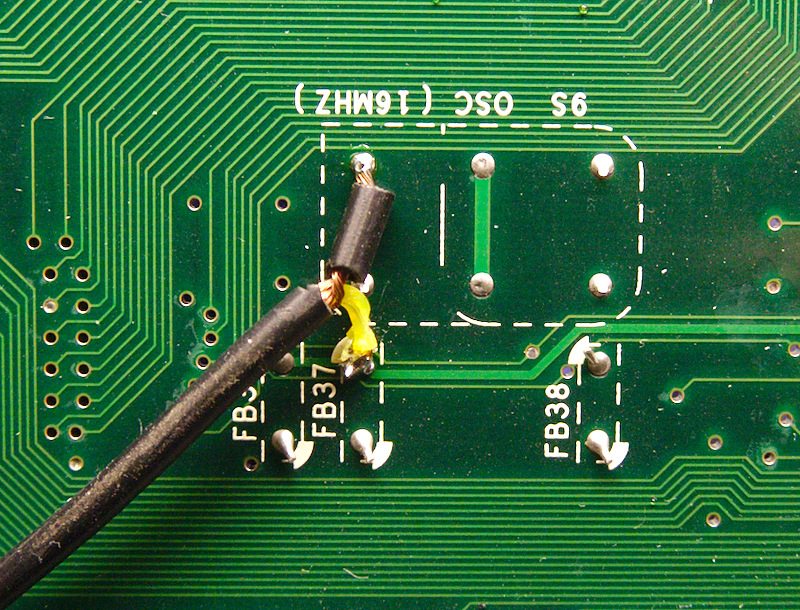
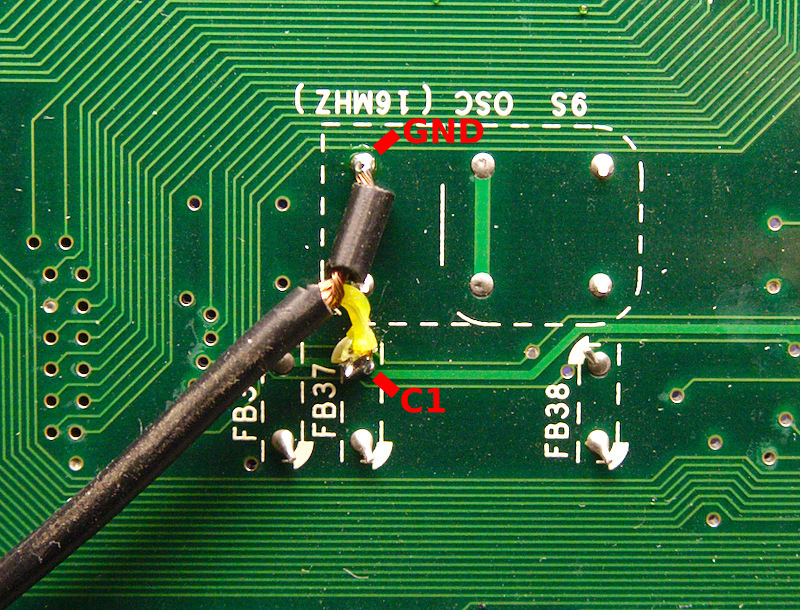
clarify installation instructions

Changed region(s): [[0.4688, 0.1869, 0.625, 0.2492], [0.4688, 0.5918, 0.5625, 0.6852]]

diff --git a/pcb/doc/install.md b/pcb/doc/install.md
@@ -22,13 +22,13 @@ Step 2: RGB, audio, power and button signals
 Step 3: Preparation of cps2_digiav board
 --------------------------
 
-Solder BCS-105-L-D-PE-BE sockets on their places and trim down pin metals underside the PCB. Bridge SMD jumpers J3, J5 and J6 on top side of the PCB.
+Solder BCS-105-L-D-PE-BE sockets on their places and trim down pin metals underside the PCB. Bridge SMD jumpers J3, J5 and J6 on top side of cps2_digiav PCB.
 
 
 Step 4: Board installation
 --------------------------
 
-Place the add-on board on top of the CPS2 board so that the sockets are aligned to headers. Connect all signal & power wires, and add a jumper wire between C1 and C2 pads.
+Place the add-on board on top of the CPS2 board so that the sockets are aligned to headers. Connect all signal & power wires, and add a jumper wire between cps2_digiav C1 and C2 pads.
 
 ![](install-3.jpg)
 
